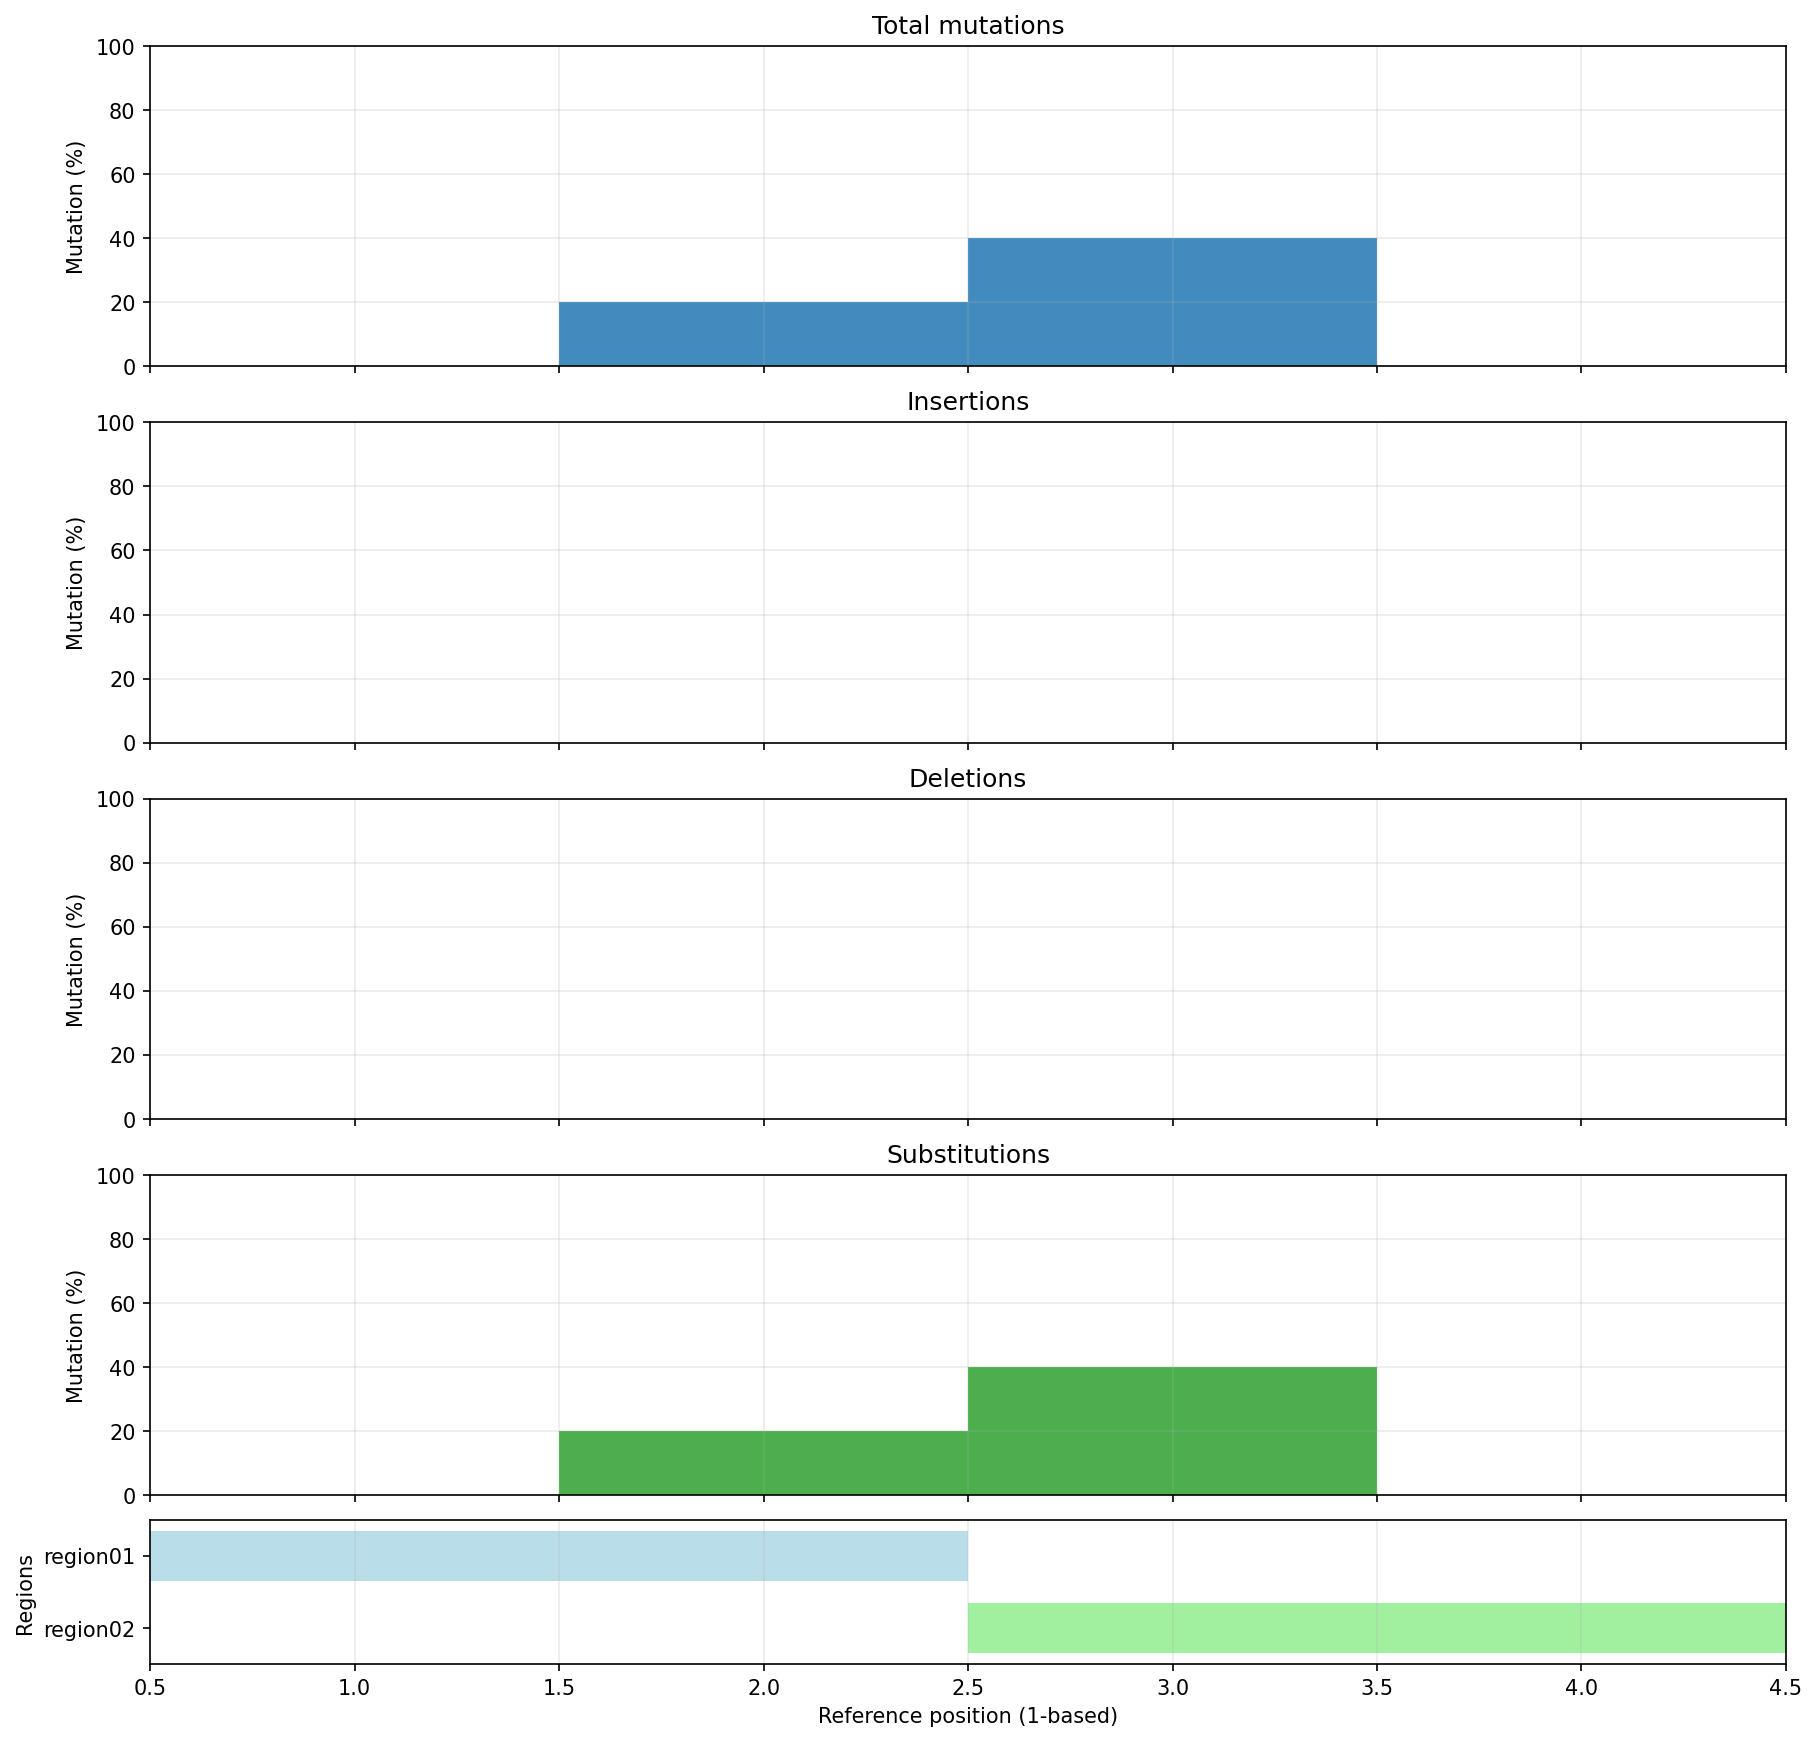
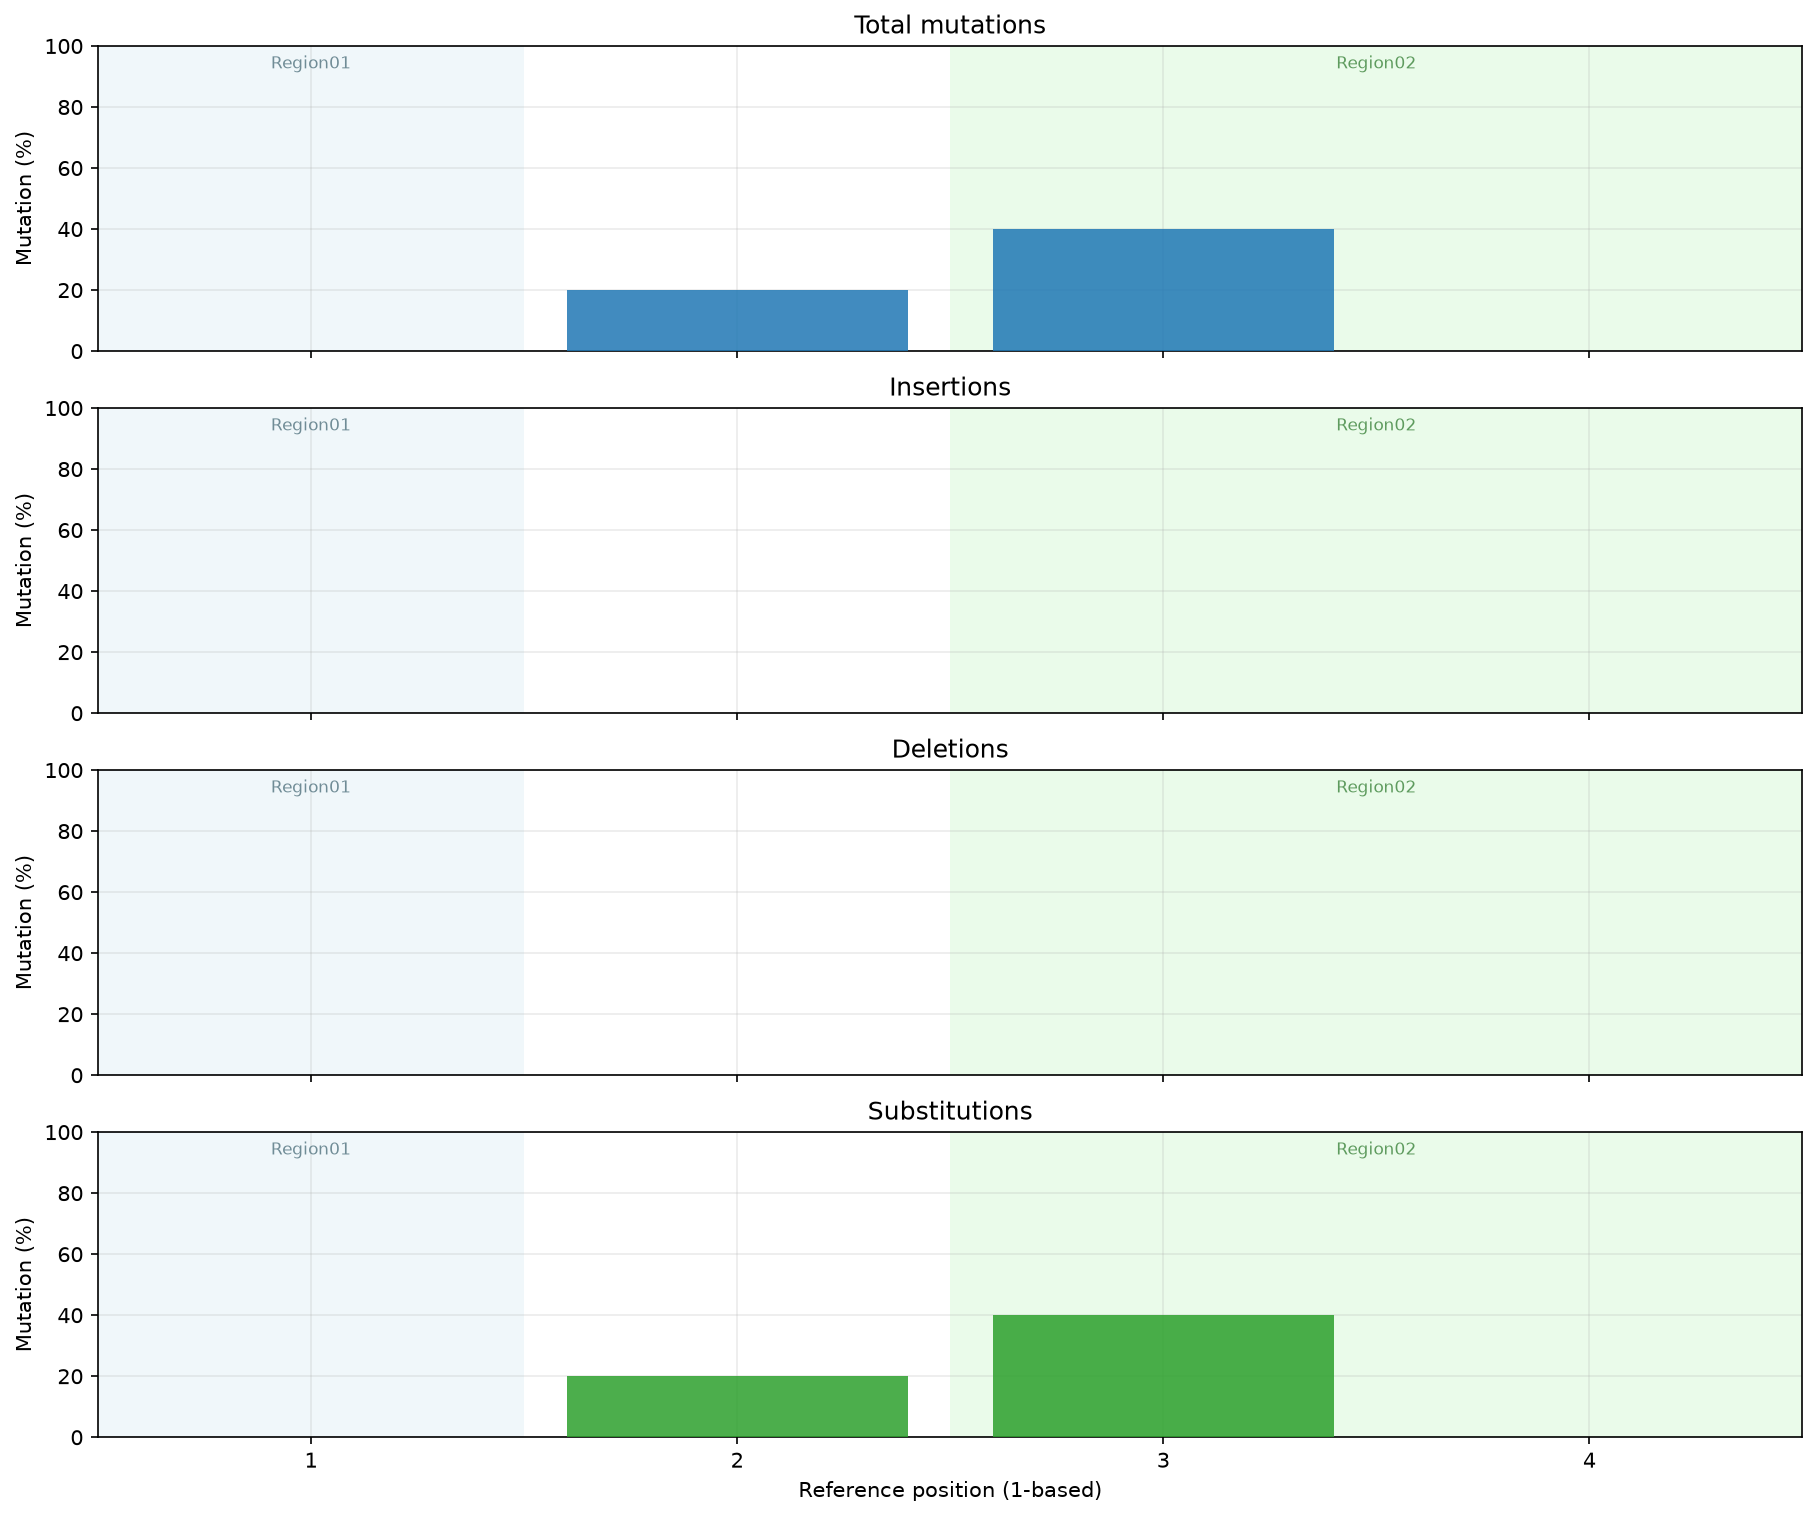
Enhance mutation percentage plots with region highlights and improve test descriptions

diff --git a/src/cstag/to_mutation_percentages.py b/src/cstag/to_mutation_percentages.py
@@ -7,7 +7,8 @@ from pathlib import Path
 from typing import Any
 
 import matplotlib.pyplot as plt
-from matplotlib.colors import is_color_like
+from matplotlib.colors import is_color_like, to_rgb
+from matplotlib.ticker import MaxNLocator
 
 CS_PREFIX = "cs:Z:"
 CS_TOKEN_PATTERN = re.compile(
@@ -216,7 +217,7 @@ def plot_mutation_percentages(
     output_path: Path | None = None,
     regions: Sequence[Mapping[str, object]] | None = None,
 ) -> tuple[Any, Any]:
-    """Create four mutation plots and an optional bottom region track."""
+    """Create four mutation plots with optional region highlights."""
     if isinstance(records, (str, bytes)) or not isinstance(records, Sequence):
         raise TypeError("records must be a non-empty sequence of dictionaries")
     if not records:
@@ -240,72 +241,63 @@ def plot_mutation_percentages(
         ("substitution_pct", "Substitutions", "#2ca02c"),
     )
     validated_regions = _validate_regions(regions, int(positions[-1]))
-    if validated_regions:
-        region_height = max(0.45, 0.22 * len(validated_regions))
-        figure, axes = plt.subplots(
-            5,
-            1,
-            figsize=(12, 11 + 0.25 * len(validated_regions)),
-            sharex=True,
-            constrained_layout=True,
-            gridspec_kw={"height_ratios": [1, 1, 1, 1, region_height]},
-        )
-        mutation_axes = axes[:4]
-        region_axis = axes[4]
-    else:
-        figure, axes = plt.subplots(
-            4,
-            1,
-            figsize=(12, 10),
-            sharex=True,
-            constrained_layout=True,
-        )
-        mutation_axes = axes
-        region_axis = None
+    figure, axes = plt.subplots(
+        4,
+        1,
+        figsize=(12, 10),
+        sharex=True,
+        constrained_layout=True,
+    )
 
-    for axis, (key, title, color) in zip(mutation_axes, series, strict=True):
+    for axis, (key, title, color) in zip(axes, series, strict=True):
         values = [record[key] for record in records]
         axis.bar(
             positions,
             values,
-            width=1.0,
+            width=0.8,
             align="center",
             color=color,
             edgecolor="none",
             alpha=0.85,
+            zorder=3,
         )
+        for region_index, region in enumerate(validated_regions):
+            start = int(region["start"])
+            end = int(region["end"])
+            region_color = str(region["color"])
+            highlight = axis.axvspan(
+                start - 0.5,
+                end + 0.5,
+                color=region_color,
+                alpha=0.18,
+                linewidth=0,
+                zorder=0.5,
+            )
+            highlight.set_gid(f"cstag-region-{region_index}")
+            red, green, blue = to_rgb(region_color)
+            axis.text(
+                (start + end) / 2,
+                0.97,
+                str(region["name"]),
+                transform=axis.get_xaxis_transform(),
+                ha="center",
+                va="top",
+                color=(red * 0.65, green * 0.65, blue * 0.65),
+                fontsize="small",
+                clip_on=True,
+                zorder=3,
+            )
         axis.set_title(title)
         axis.set_ylabel("Mutation (%)")
         axis.set_ylim(0, 100)
         axis.grid(axis="both", alpha=0.25)
 
-    if region_axis is not None:
-        for row, region in enumerate(validated_regions):
-            start = int(region["start"])
-            end = int(region["end"])
-            region_axis.barh(
-                row,
-                end - start + 1,
-                left=start - 0.5,
-                height=0.7,
-                color=str(region["color"]),
-                edgecolor="none",
-                alpha=0.85,
-            )
-        region_axis.set_yticks(
-            range(len(validated_regions)),
-            labels=[str(region["name"]) for region in validated_regions],
-        )
-        region_axis.set_ylim(-0.5, len(validated_regions) - 0.5)
-        region_axis.invert_yaxis()
-        region_axis.set_ylabel("Regions")
-        region_axis.grid(axis="x", alpha=0.25)
-        x_axis = region_axis
+    axes[-1].set_xlabel("Reference position (1-based)")
+    axes[-1].set_xlim(positions[0] - 0.5, positions[-1] + 0.5)
+    if len(positions) <= 20:
+        axes[-1].set_xticks(positions)
     else:
-        x_axis = mutation_axes[-1]
-
-    x_axis.set_xlabel("Reference position (1-based)")
-    x_axis.set_xlim(positions[0] - 0.5, positions[-1] + 0.5)
+        axes[-1].xaxis.set_major_locator(MaxNLocator(integer=True))
 
     if output_path is not None:
         output_path.parent.mkdir(parents=True, exist_ok=True)
@@ -331,8 +323,8 @@ def to_mutation_percentages(
         output_path: Path of the plot file to create. The format is inferred
             from its extension. Use ``.pdf`` for an editable vector PDF with
             embedded TrueType fonts, or ``.png`` for a raster image.
-        regions: Optional sequence of dictionaries describing regions to annotate
-            below the mutation plots. Each dictionary must contain ``name``
+        regions: Optional sequence of dictionaries describing regions to highlight
+            in the mutation plots. Each dictionary must contain ``name``
             (the displayed label), ``start`` and ``end`` (1-based, inclusive
             reference positions), and ``color`` (a Matplotlib-compatible color).
             For example::
@@ -344,10 +336,9 @@ def to_mutation_percentages(
                      "color": "lightgreen"},
                 ]
 
-            Each region is drawn as a separate horizontal bar, so overlapping
-            regions remain visible. Supplying one or more regions adds a fifth
-            annotation track below the four mutation panels; ``None`` or an
-            empty sequence keeps the original four-panel plot.
+            Each region is drawn as a translucent vertical band behind the data
+            in all four mutation panels, with its name shown at the top of the
+            band. Overlapping regions remain visible through blended colors.
 
     Returns:
         One dictionary per 1-based relative reference position containing

diff --git a/tests/test_to_mutation_percentages.py b/tests/test_to_mutation_percentages.py
@@ -121,7 +121,7 @@ def test_invalid_or_unsupported_inputs_raise(cs_tags, error_type):
         summarize_cs(cs_tags)
 
 
-def test_plot_has_four_ordered_filled_bar_panels(tmp_path):
+def test_plot_has_four_ordered_discrete_bar_panels(tmp_path):
     records = summarize_cs([":2*ag+tt:2", ":5"])
     output_path = tmp_path / "profile.png"
     figure, axes = plot_mutation_percentages(records, output_path)
@@ -144,7 +144,18 @@ def test_plot_has_four_ordered_filled_bar_panels(tmp_path):
         0.0,
         0.0,
     ]
-    assert all(bar.get_width() == 1.0 for axis in axes for bar in axis.patches)
+    assert all(len(axis.patches) == 5 for axis in axes)
+    assert all(
+        bar.get_width() == pytest.approx(0.8) for axis in axes for bar in axis.patches
+    )
+    assert list(axes[-1].get_xticks()) == [1, 2, 3, 4, 5]
+    assert [label.get_text() for label in axes[-1].get_xticklabels()] == [
+        "1",
+        "2",
+        "3",
+        "4",
+        "5",
+    ]
     assert output_path.is_file()
 
     import matplotlib.pyplot as plt
@@ -152,25 +163,29 @@ def test_plot_has_four_ordered_filled_bar_panels(tmp_path):
     plt.close(figure)
 
 
-def test_plot_adds_bottom_region_track(tmp_path):
+def test_plot_overlays_regions_on_every_panel(tmp_path):
     records = summarize_cs([":40"])
     regions = [
-        {"name": "hoge", "start": 10, "end": 20, "color": "orange"},
-        {"name": "fuga", "start": 20, "end": 30, "color": "skyblue"},
+        {"name": "Region01", "start": 1, "end": 1, "color": "orange"},
+        {"name": "Region02", "start": 20, "end": 30, "color": "skyblue"},
     ]
     output_path = tmp_path / "annotated_profile.png"
     figure, axes = plot_mutation_percentages(records, output_path, regions=regions)
 
-    assert len(axes) == 5
-    region_axis = axes[-1]
-    assert [label.get_text() for label in region_axis.get_yticklabels()] == [
-        "hoge",
-        "fuga",
-    ]
-    assert [bar.get_x() for bar in region_axis.patches] == [9.5, 19.5]
-    assert [bar.get_width() for bar in region_axis.patches] == [11, 11]
-    assert region_axis.get_ylabel() == "Regions"
-    assert region_axis.get_xlabel() == "Reference position (1-based)"
+    assert len(axes) == 4
+    for axis in axes:
+        highlights = [
+            patch
+            for patch in axis.patches
+            if patch.get_gid() and patch.get_gid().startswith("cstag-region-")
+        ]
+        assert [highlight.get_x() for highlight in highlights] == [0.5, 19.5]
+        assert [highlight.get_width() for highlight in highlights] == [1, 11]
+        assert [highlight.get_alpha() for highlight in highlights] == [0.18, 0.18]
+        assert [text.get_text() for text in axis.texts] == ["Region01", "Region02"]
+        assert all(highlight.get_zorder() < 1 for highlight in highlights)
+    assert axes[-1].get_xlabel() == "Reference position (1-based)"
+    assert all(float(tick).is_integer() for tick in axes[-1].get_xticks())
     assert output_path.is_file()
 
     import matplotlib.pyplot as plt

diff --git a/README.md b/README.md
@@ -246,8 +246,8 @@ import cstag
 
 cs_tags = ["=ACGT", "=AC*gt=T", "=C*gt=T", "=ACGT", "=AC*gt=T"]
 regions = [
-    {"name": "region01", "start": 1, "end": 2, "color": "lightblue"},
-    {"name": "region02", "start": 3, "end": 4, "color": "lightgreen"},
+    {"name": "Region01", "start": 1, "end": 1, "color": "lightblue"},
+    {"name": "Region02", "start": 3, "end": 4, "color": "lightgreen"},
 ]
 
 report = cstag.to_mutation_percentages(
@@ -288,8 +288,11 @@ print(report)
 
 The function accepts short- or long-form cs tags and returns one dictionary per
 1-based relative reference position. Percentages are reported for all mutations,
-insertions, deletions, and substitutions. A PDF is saved as editable vector
-graphics; use a `.png` output path for a raster image.
+insertions, deletions, and substitutions. Each panel uses separate vertical bars
+centered on discrete, 1-based reference positions; x-axis labels are integers.
+Optional regions are shown as labeled, translucent vertical bands behind the data
+in all four panels. A PDF is saved as editable vector graphics; use a `.png`
+output path for a raster image.
 
 
 ## 📣 Feedback and Support
